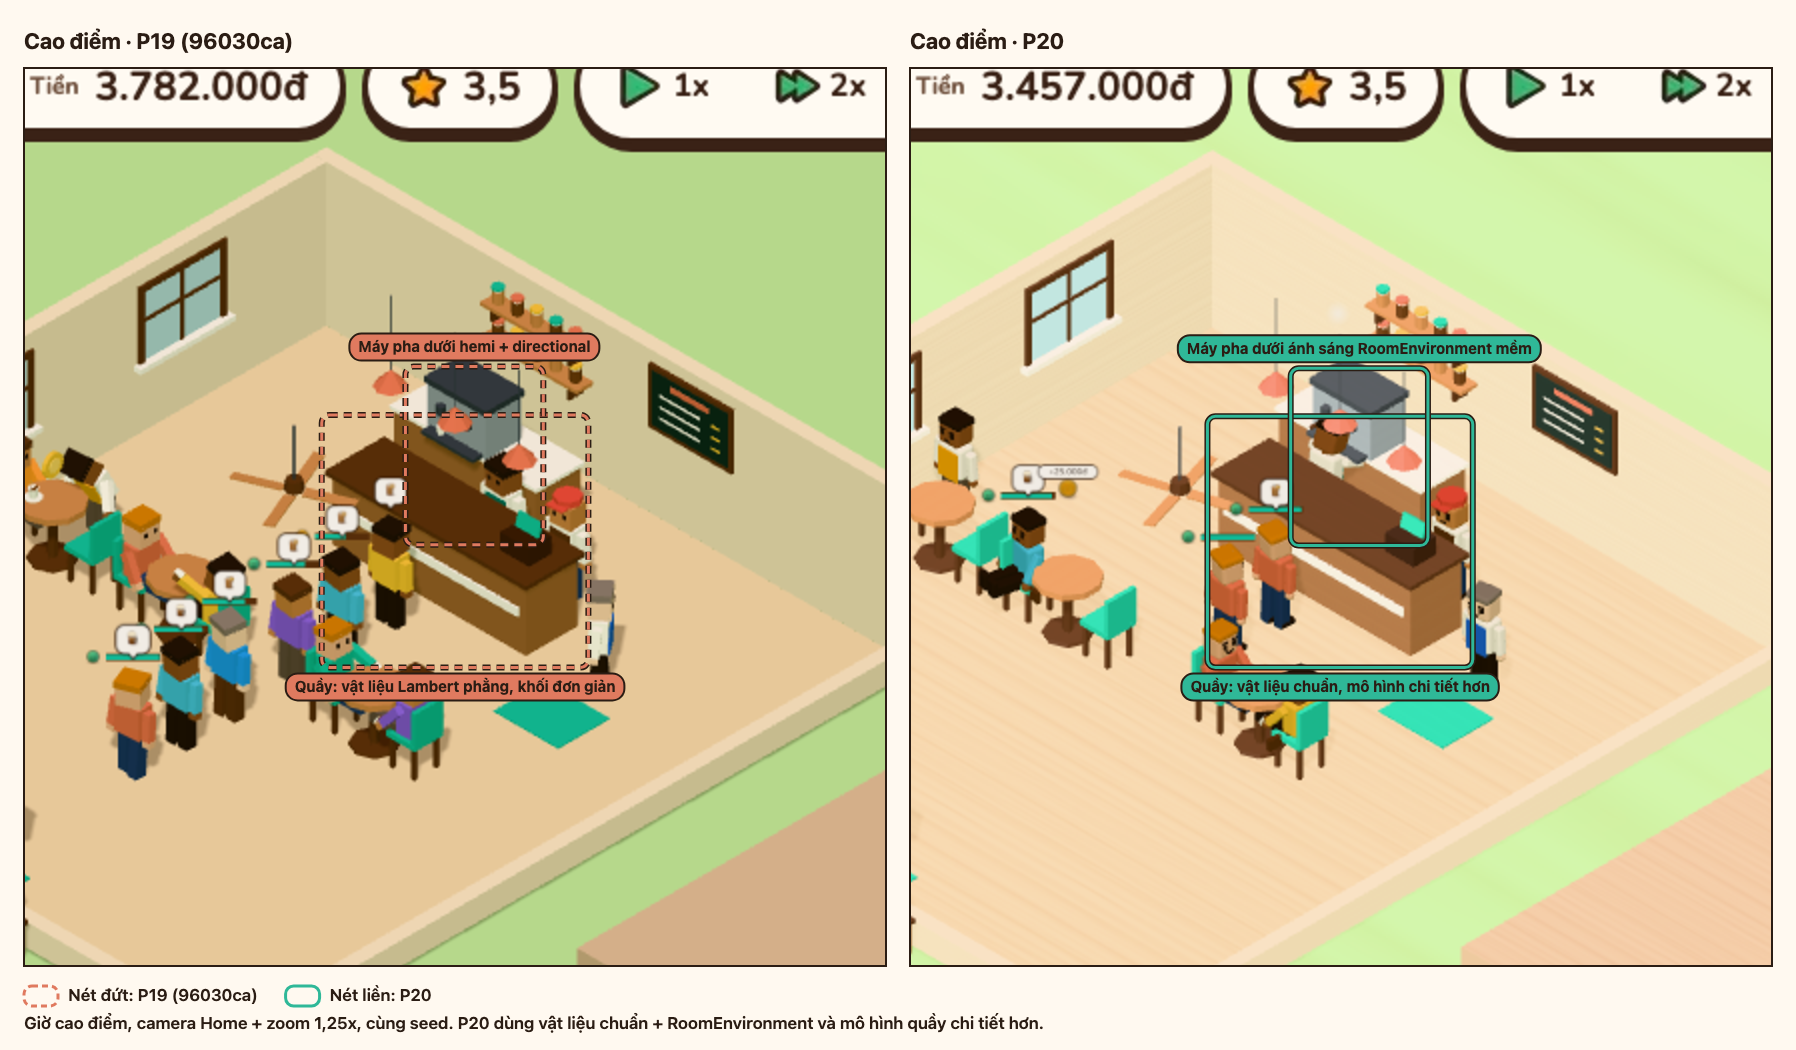
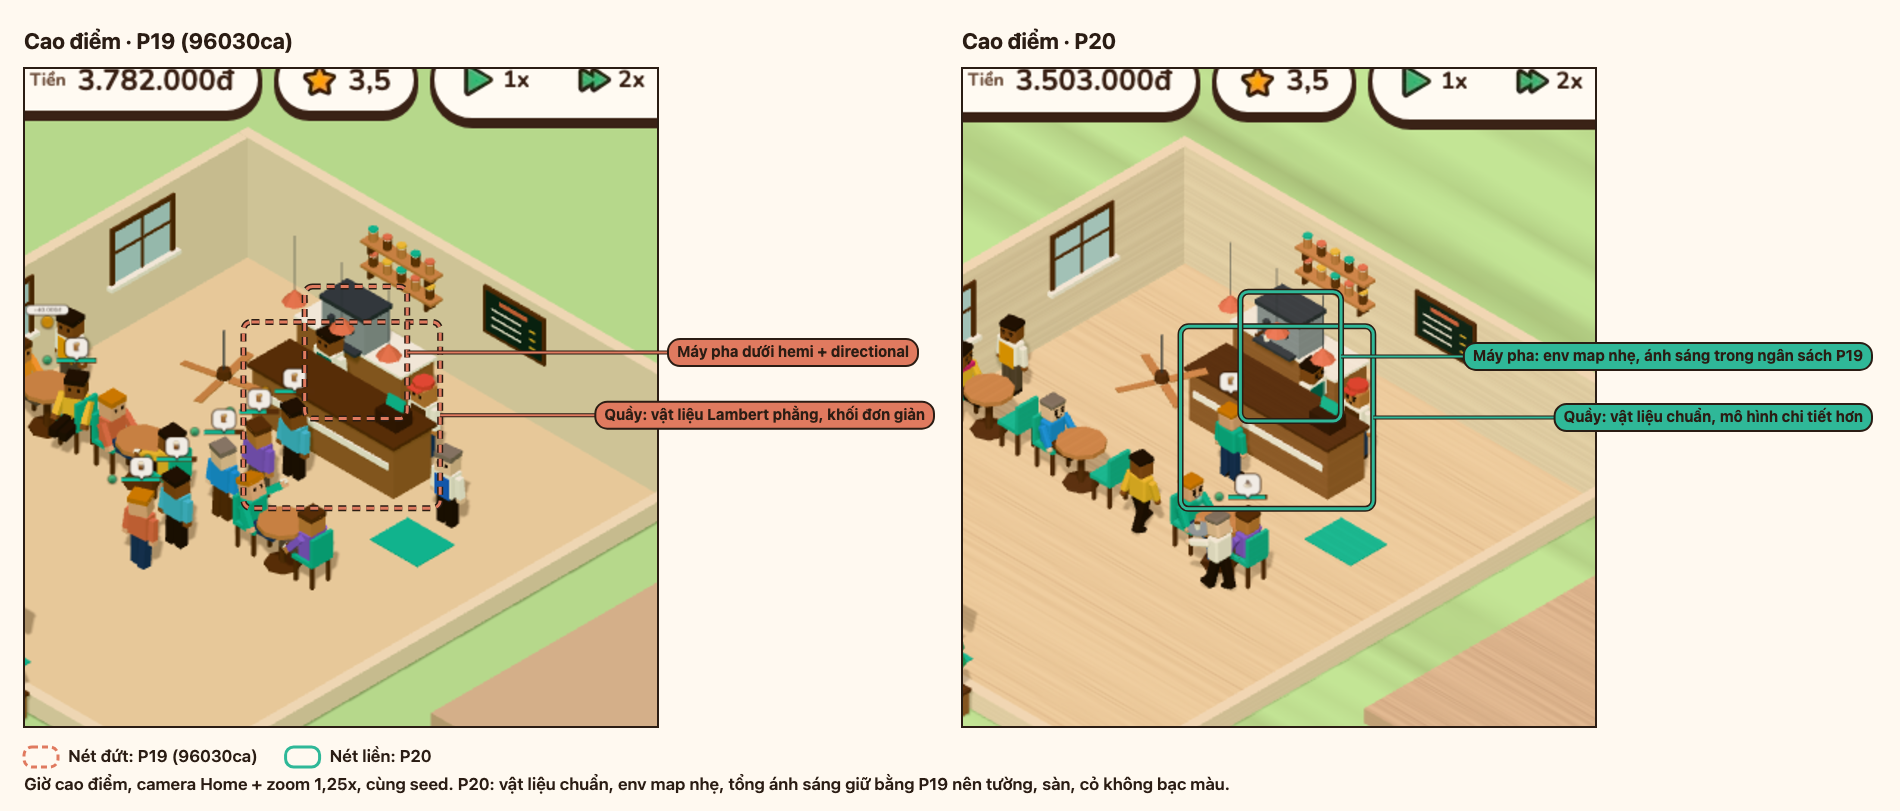
docs(media): recapture the twelve P20 before/after boards

diff --git a/docs/reports/p20-gameplay-visual.md b/docs/reports/p20-gameplay-visual.md
@@ -8,14 +8,16 @@ Báo cáo P20: chấm hiện trạng 3D rồi cải tiến, cấp quán/nhiệm 
 npm run media:p20
 ```
 
-Lệnh dựng tám bảng vào `docs/media/`, mỗi bảng ghép P19 cạnh P20 cùng seed và góc máy, khoanh chỗ đã đổi (P19 nét đứt cam, P20 nét liền xanh); cách chạy ở [docs/media.md](../media.md#ảnh-trướcsau-p20).
+Lệnh dựng mười hai bảng vào `docs/media/`, mỗi bảng ghép P19 cạnh P20 cùng seed, khoanh chỗ đã đổi (P19 nét đứt cam, P20 nét liền xanh); cách chạy ở [docs/media.md](../media.md#ảnh-trướcsau-p20). Lần chạy cuối xong trong 328 s, không cảnh báo `!!`.
 
 | | |
 | --- | --- |
-| ![HUD: chip Cấp N + thanh XP và vạch chia nhóm dock](../media/hud-dock-p20.png)<br>HUD: chip "Cấp N" + thanh XP, vạch chia Vận hành \| Phát triển | ![Bảng Việc: nhiệm vụ ngày](../media/tasks-missions-p20.png)<br>Bảng Việc: mục "Nhiệm vụ hôm nay" ba thẻ |
-| ![Bảng Nâng cấp: nhóm và khóa](../media/upgrades-locks-p20.png)<br>Nâng cấp: nhóm Dụng cụ/Không gian/Trang trí, nhãn "Mở ở cấp N" | ![Daily Report: tab Chỉ số](../media/report-insights-p20.png)<br>Daily Report: tab Chỉ số với KPI ngành F&B |
-| ![Cài đặt 390 px](../media/settings-390-p20.png)<br>Cài đặt 390 px: Hiển thị + Giảm chuyển động, Điều khiển, Phím tắt trong ô xổ | ![Cài đặt 1280 px](../media/settings-1280-p20.png)<br>Cài đặt 1280 px: cùng cấu trúc mới |
-| ![Cận cảnh pha chế](../media/brew-closeup-p20.png)<br>Cận cảnh quầy: nhân vật có mặt biểu cảm và chuỗi xay–nén–chiết–rót | ![Giờ cao điểm](../media/peak-p20.png)<br>Giờ cao điểm: vật liệu chuẩn + RoomEnvironment, quầy chi tiết hơn |
+| ![HUD: chip Cấp N + thanh XP và vạch chia nhóm dock](../media/hud-dock-p20.png)<br>HUD: chip "Cấp N" + thanh XP, vạch chia Vận hành \| Phát triển \| Đánh giá | ![Dock 390 px](../media/dock-390-p20.png)<br>Dock 390 px: vạch chia không chiếm ô, Đánh giá nhóm riêng |
+| ![Bảng Việc: nhiệm vụ ngày](../media/tasks-missions-p20.png)<br>Bảng Việc: mục "Nhiệm vụ hôm nay" ba thẻ | ![Bảng Nâng cấp: nhóm và khóa](../media/upgrades-locks-p20.png)<br>Nâng cấp: nhóm Dụng cụ/Không gian/Trang trí, nhãn "Mở ở cấp 2" |
+| ![Daily Report: Tổng kết P19 và tab Chỉ số P20](../media/report-insights-p20.png)<br>Báo cáo: Tổng kết P19 có số liệu ↔ tab Chỉ số P20 với KPI F&B | ![Daily Report: băng Lên cấp](../media/report-levelup-p20.png)<br>Báo cáo: băng "Lên cấp 2 · Quán quen" và món mở khóa |
+| ![Cài đặt 390 px](../media/settings-390-p20.png)<br>Cài đặt 390 px (cả form): Hiển thị + Giảm chuyển động, Điều khiển, Phím tắt trong ô xổ | ![Cài đặt 1280 px](../media/settings-1280-p20.png)<br>Cài đặt 1280 px: cùng cấu trúc mới |
+| ![Cận cảnh pha chế](../media/brew-closeup-p20.png)<br>Barista lúc máy đang pha: mặt có lông mày, miệng và tư thế pha | ![Khách có tâm trạng](../media/customer-mood-p20.png)<br>Khách: mặt đổi theo tâm trạng (P19 chỉ 2 chấm) |
+| ![Năm dụng cụ mới](../media/tools-p20.png)<br>Quầy sau: máy xay hạt, tủ bánh, máy xay sinh tố, máy làm đá, máy rửa ly | ![Giờ cao điểm](../media/peak-p20.png)<br>Giờ cao điểm: vật liệu chuẩn, env map nhẹ, màu tường/sàn/cỏ giữ như P19 |
 
 ## Chấm 3D: hiện trạng P19 → P20
 
